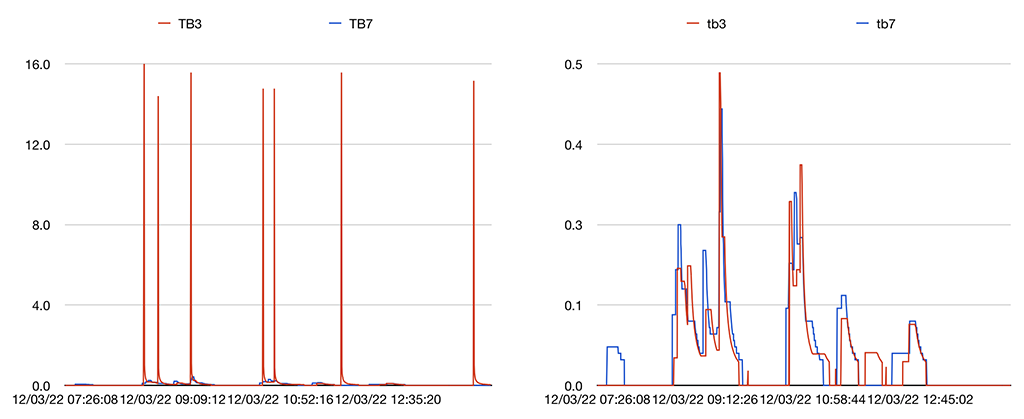
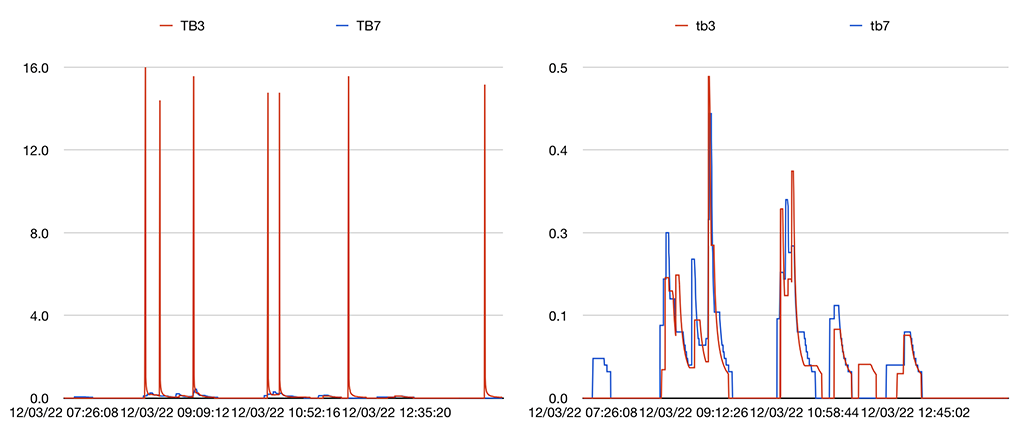
Release 0.32, report calculated rain rates < 0.04 as 0.0.

diff --git a/bin/user/rainrate.py b/bin/user/rainrate.py
@@ -48,7 +48,7 @@ from weewx.engine import StdService
 # get a logger object
 log = logging.getLogger(__name__)
 
-RAINRATE_VERSION = '0.31'
+RAINRATE_VERSION = '0.32'
 
 if sys.version_info[0] < 3 or (sys.version_info[0] == 3 and sys.version_info[1] < 7):
     raise weewx.UnsupportedFeature(
@@ -281,4 +281,6 @@ class RainRate(StdService):
                 rainRate2 = 3600 * 0.01 / (pkt['dateTime'] - rain_entries[0].timestamp)
             # Pick the lower of the two rates.
             pkt['rainRate'] = min(rainRate1, rainRate2)
+            if pkt['rainRate'] < 0.035:
+                pkt['rainRate'] = 0.0
         log.debug('new_loop(%d): Added/updated pkt[rainRate] of %f' % (pkt['dateTime'], pkt['rainRate']))

diff --git a/install.py b/install.py
@@ -31,7 +31,7 @@ def loader():
 class RainRateInstaller(ExtensionInstaller):
     def __init__(self):
         super(RainRateInstaller, self).__init__(
-            version = "0.31",
+            version = "0.32",
             name = 'rainrate',
             description = 'Inserts/updates rainRate observations in loop packets.',
             author = "John A Kline",

diff --git a/README.md b/README.md
@@ -74,12 +74,12 @@ contains a tip, this second rate is not calculated.
 
 # Installation Instructions
 
-1. Download the lastest release, weewx-rainrate-0.31.zip, from the
+1. Download the lastest release, weewx-rainrate-0.32.zip, from the
    [GitHub Repository](https://github.com/chaunceygardiner/weewx-rainrate).
 
 1. Run the following command.
 
-   `sudo /home/weewx/bin/wee_extension --install weewx-rainrate-0.31.zip`
+   `sudo /home/weewx/bin/wee_extension --install weewx-rainrate-0.32.zip`
 
    Note: this command assumes weewx is installed in /home/weewx.  If it's installed
    elsewhere, adjust the path of wee_extension accordingly.
